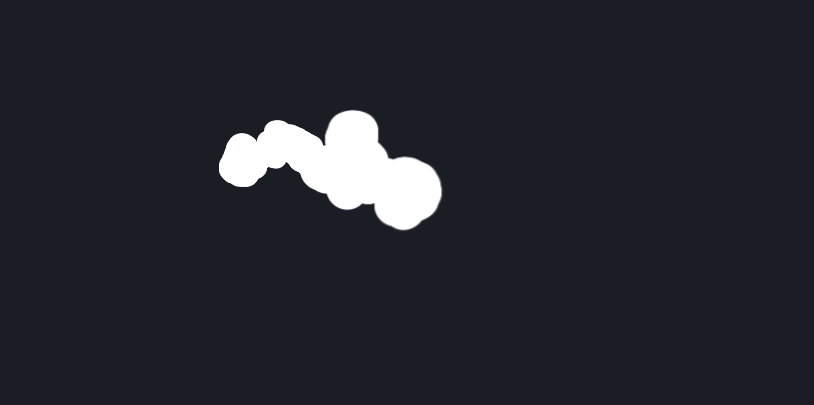
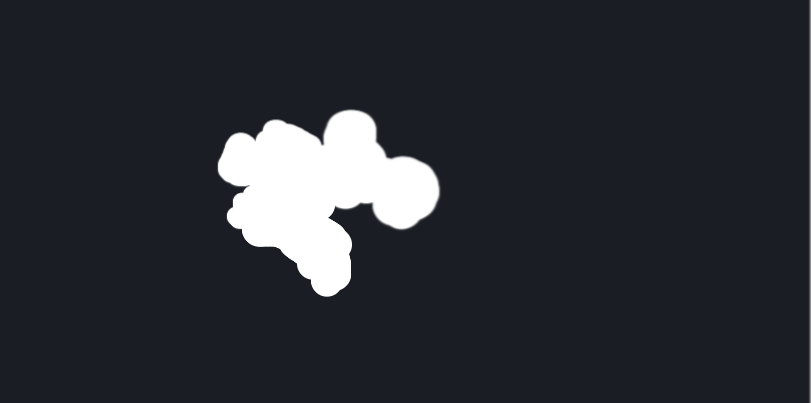
Game Night 08.16.2026
Game night tweaks.

diff --git a/Equipment/Potion of Healing.md b/Equipment/Potion of Healing.md
@@ -46,7 +46,7 @@ views:
 **Batch Size** 1 potion
 
 **Supplies**
-- Healing Herbs ×3
+- [[Heartleaf]]×3
 - [[Crystal Water]] ×1
 - [[Quintessence]] x1
 - Gold 15 gp
